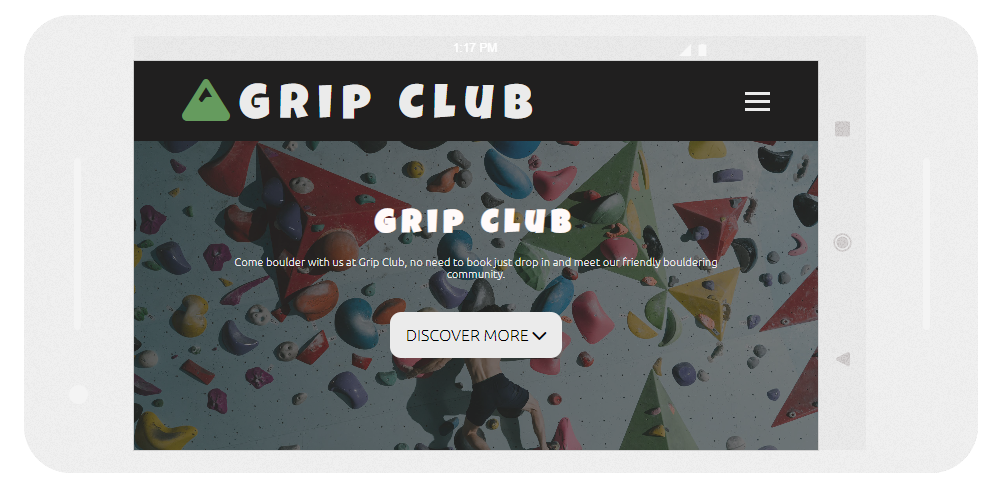
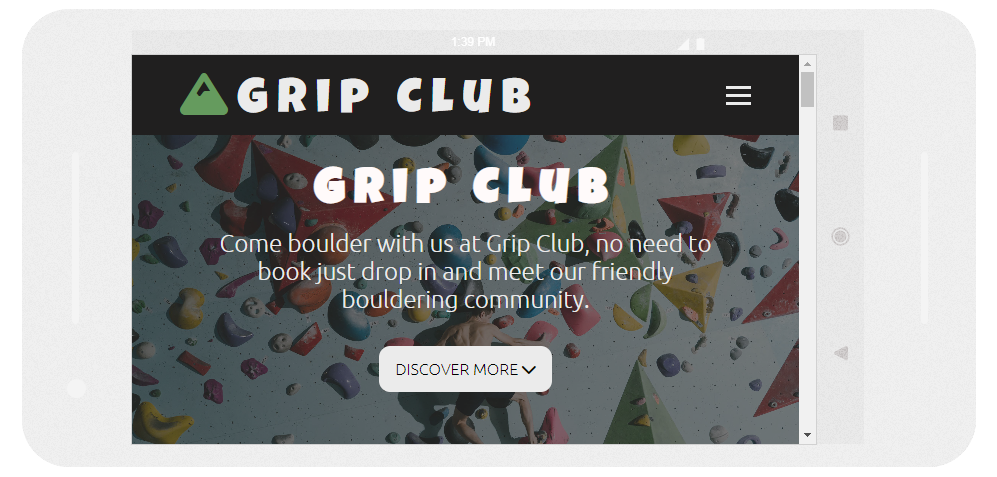
Change wireframes image display README

diff --git a/assets/css/styles.css b/assets/css/styles.css
@@ -579,15 +579,15 @@ section {
 }
 
 /* TO MAKE SITE RESPONSIVE FOR LANDSCAPE */
-@media only screen and (max-width: 770px) {
+@media only screen and (max-width: 930px) {
 
     #hero-section h1 {
         padding-top: 3rem;
-        font-size: 2rem;
+        font-size: 3rem;
     }
 
     #hero-section p {
-        font-size: 0.7rem;
+        font-size: 1.5rem;
         padding: 0 5rem;
     }
 

diff --git a/README.md b/README.md
@@ -406,7 +406,7 @@ I have made sure to implement accessibility throughout this project. From the st
 
 </details><br />
 
-6. When i used the [Responsinator](http://www.responsinator.com/) site, it highlighted that my site was not resposive in landscape for mobile devises. The h1 would get pushed behind the nav bar. To fix this i added another media query with a max-width: 770px. This is no longer an error.
+6. When i used the [Responsinator](http://www.responsinator.com/) site, it highlighted that my site was not resposive in landscape for mobile devises. The h1 would get pushed behind the nav bar. To fix this i added another media query with a max-width: 930px. This is no longer an error.
 <details><summary><b>Landscape Mobile Bug</b></summary>
 
 ![Landscape Mobile Bug](assets/readme-images/unresponsive-landcape-phone.png)
